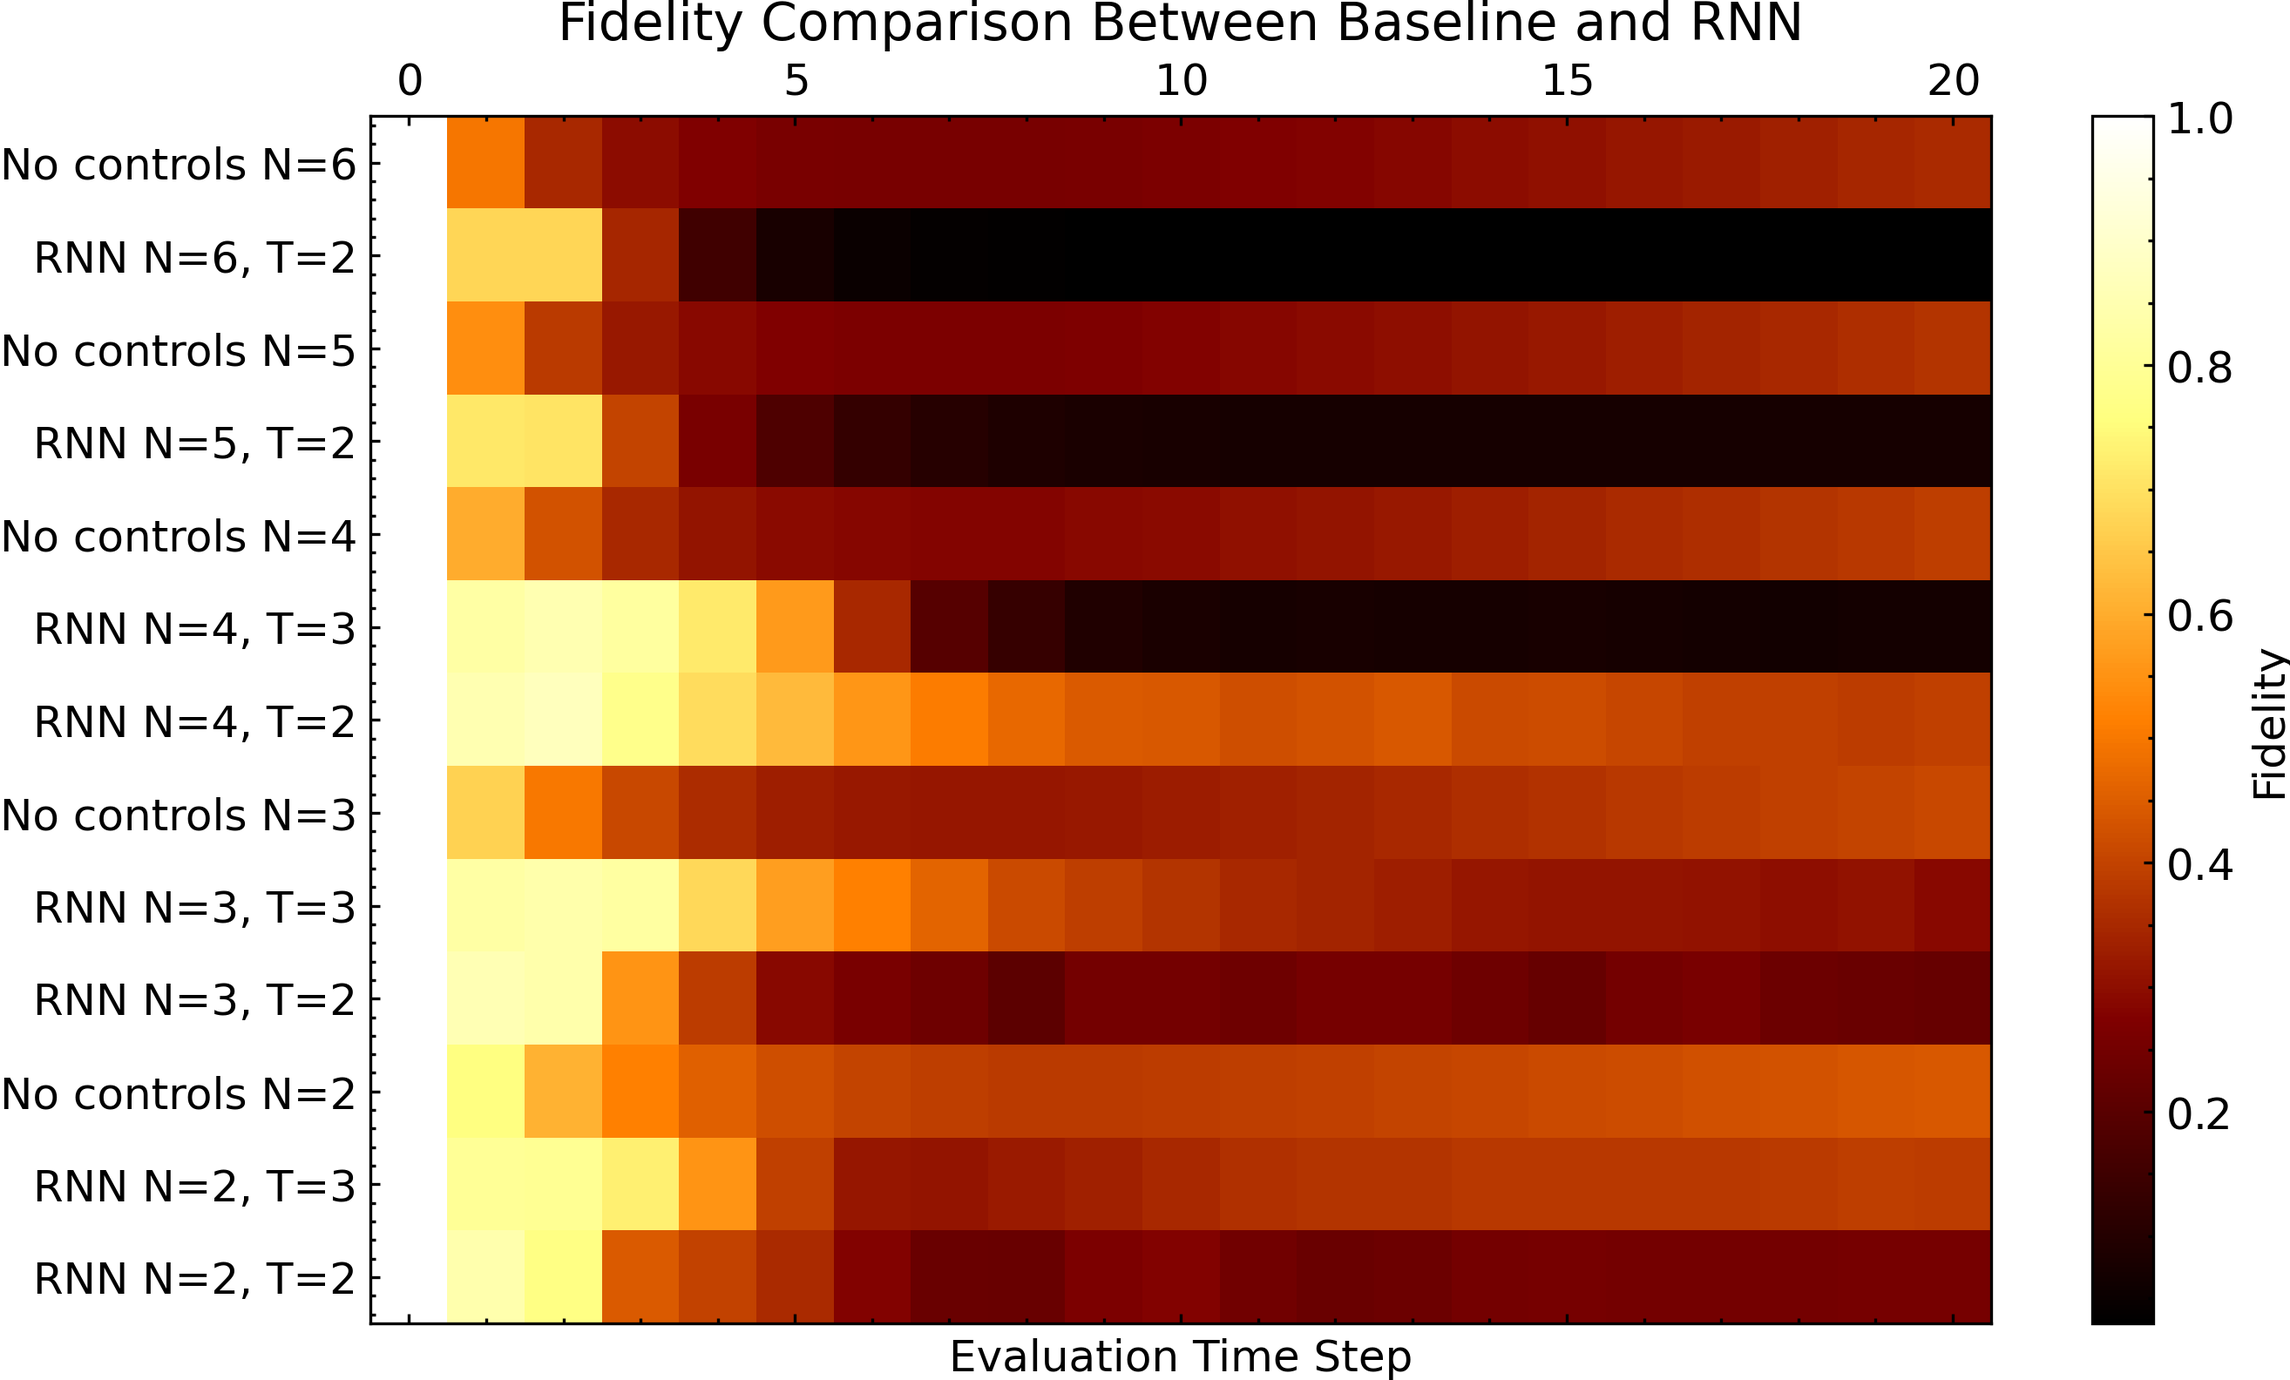
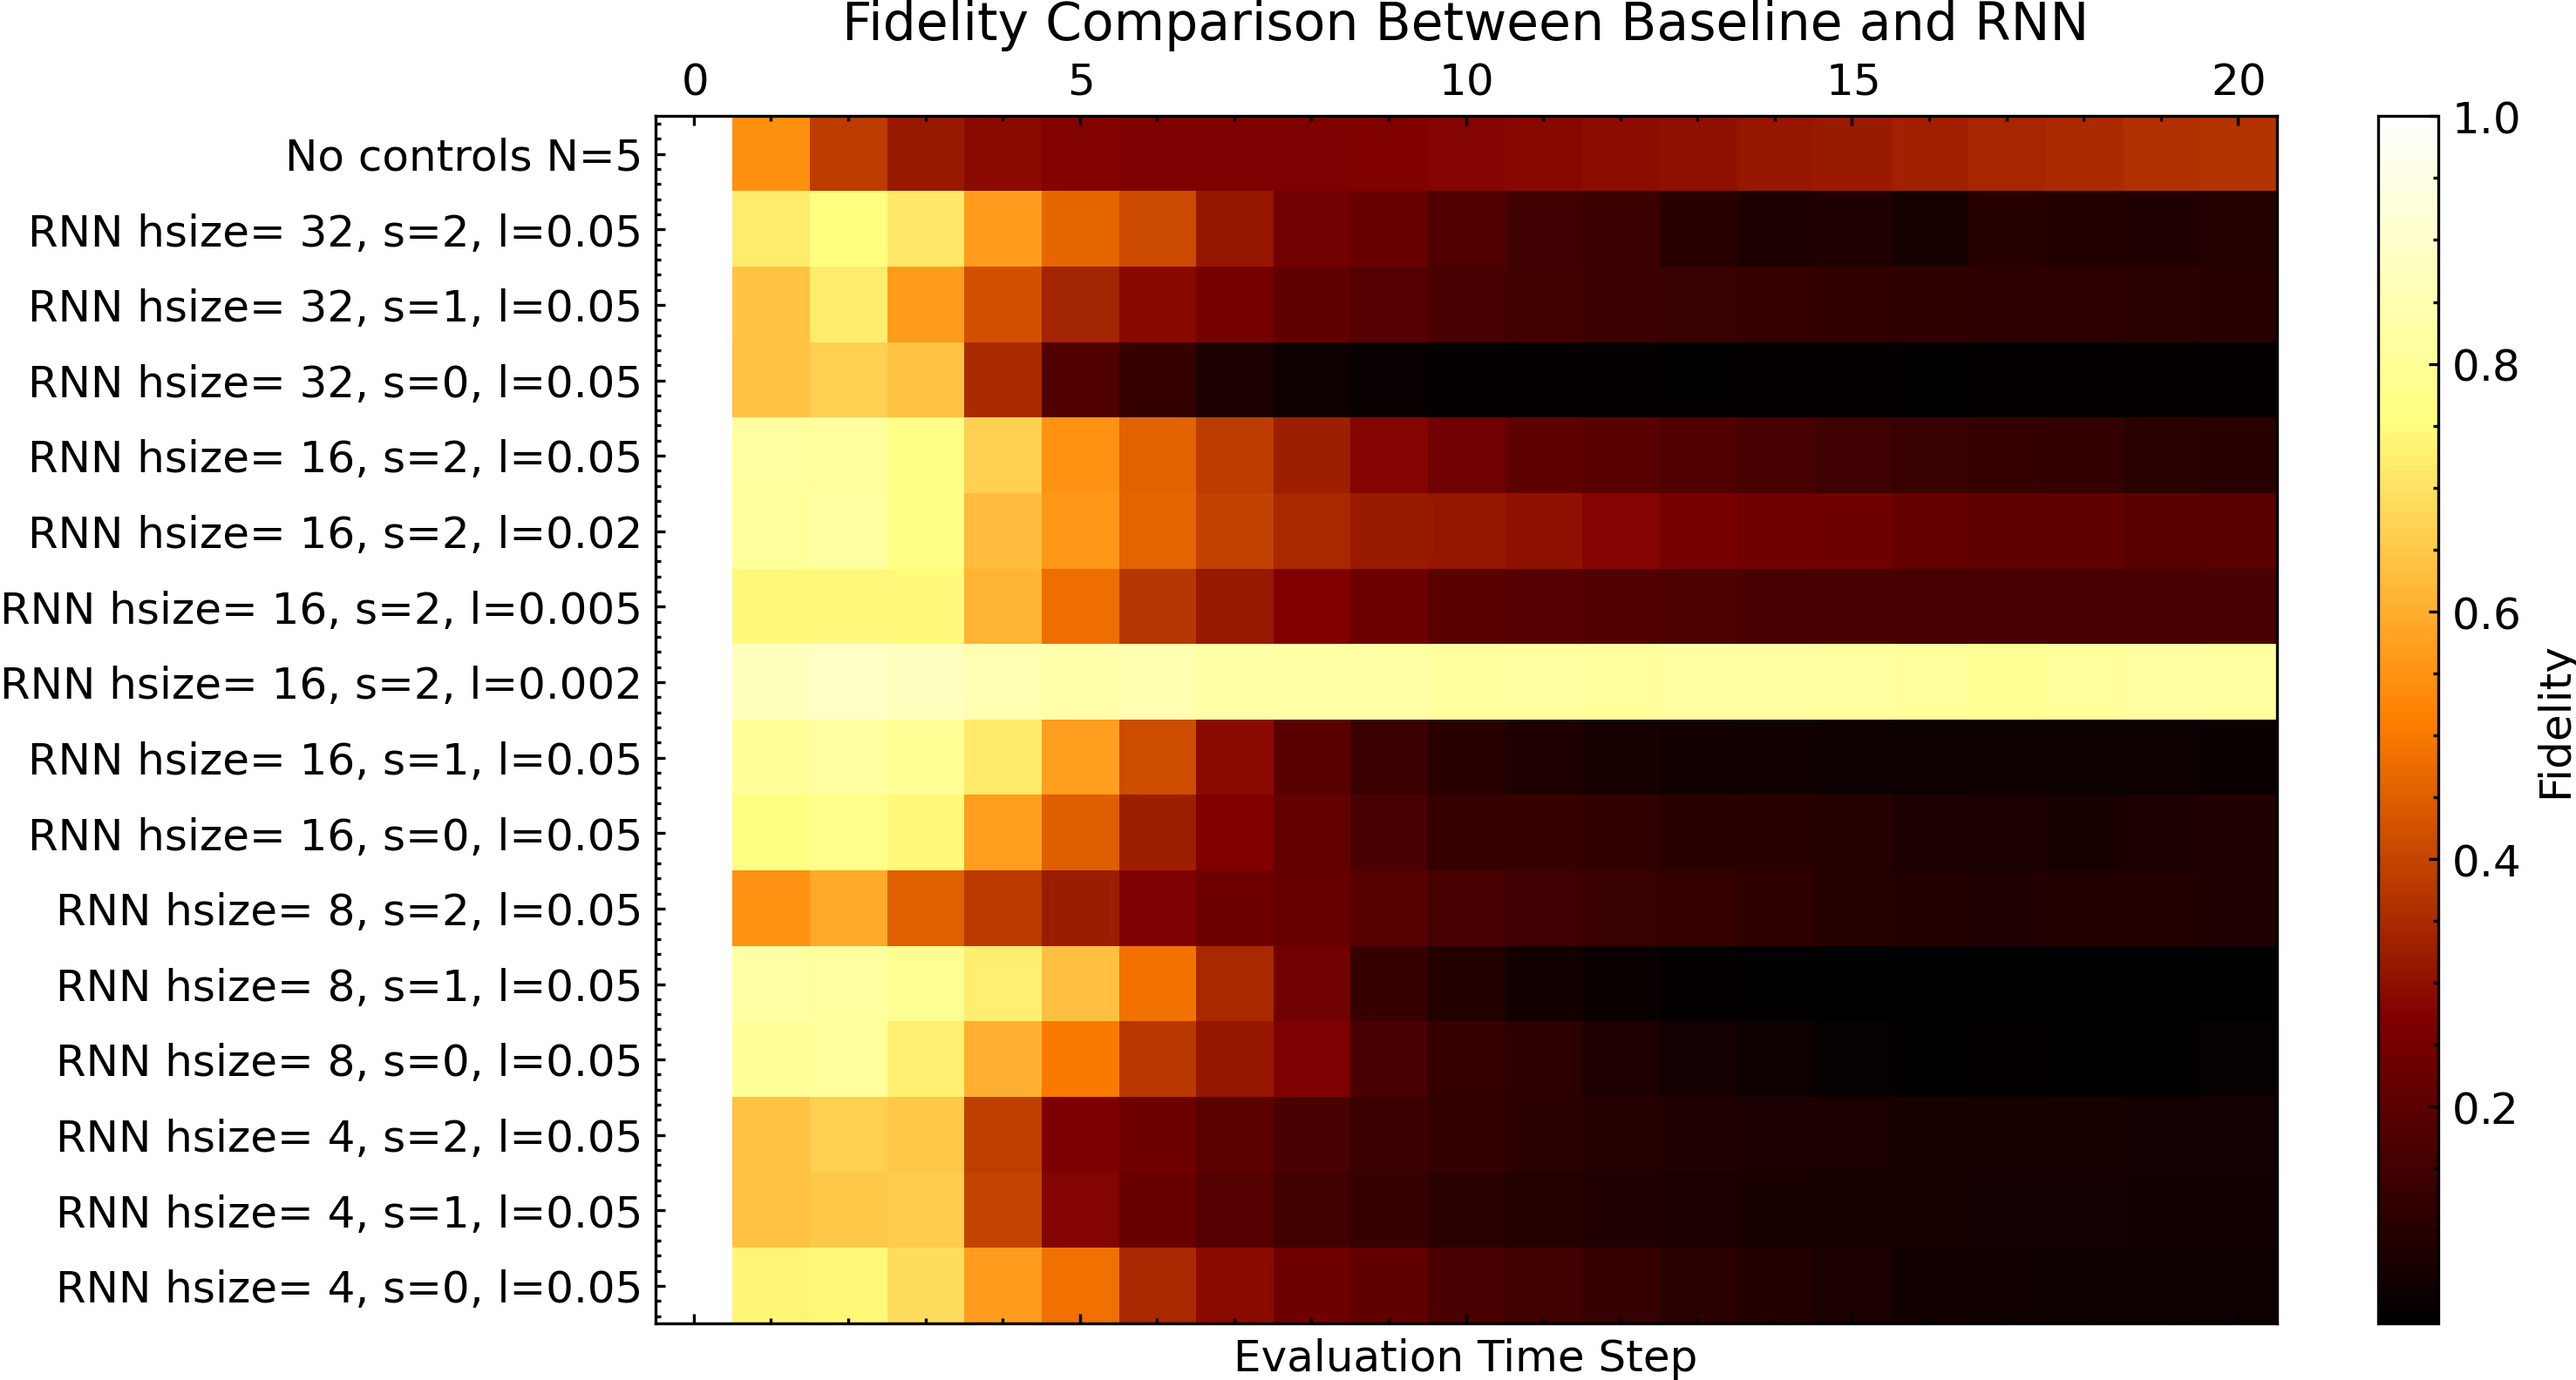
Renamed files

diff --git a/paper_example/plot_helpers.py b/paper_example/plot_helpers.py
@@ -426,7 +426,7 @@ def open_from_dir(dir_, exclude="", sort_by=[]):
         with open(os.path.join(dir_, file), 'r') as f:
             # Extract fidelities
             if file.endswith(".json"):
-                fidelities = json.load(f)["fidelity_each_timestep"]
+                fidelities = np.array(json.load(f)["fidelity_each_timestep"]).mean(axis=1)
             else:
                 fidelities = np.load(os.path.join(dir_, file))["fidelities"]
 

diff --git a/paper_example/helpers.py b/paper_example/helpers.py
@@ -293,5 +293,5 @@ experiment_param_formats = [
     ("gammam", float),
     ("Ntrainiter", int),
     ("rnnhsize", int),
-    ("learning_rate", float),
+    ("l", float),
 ]
